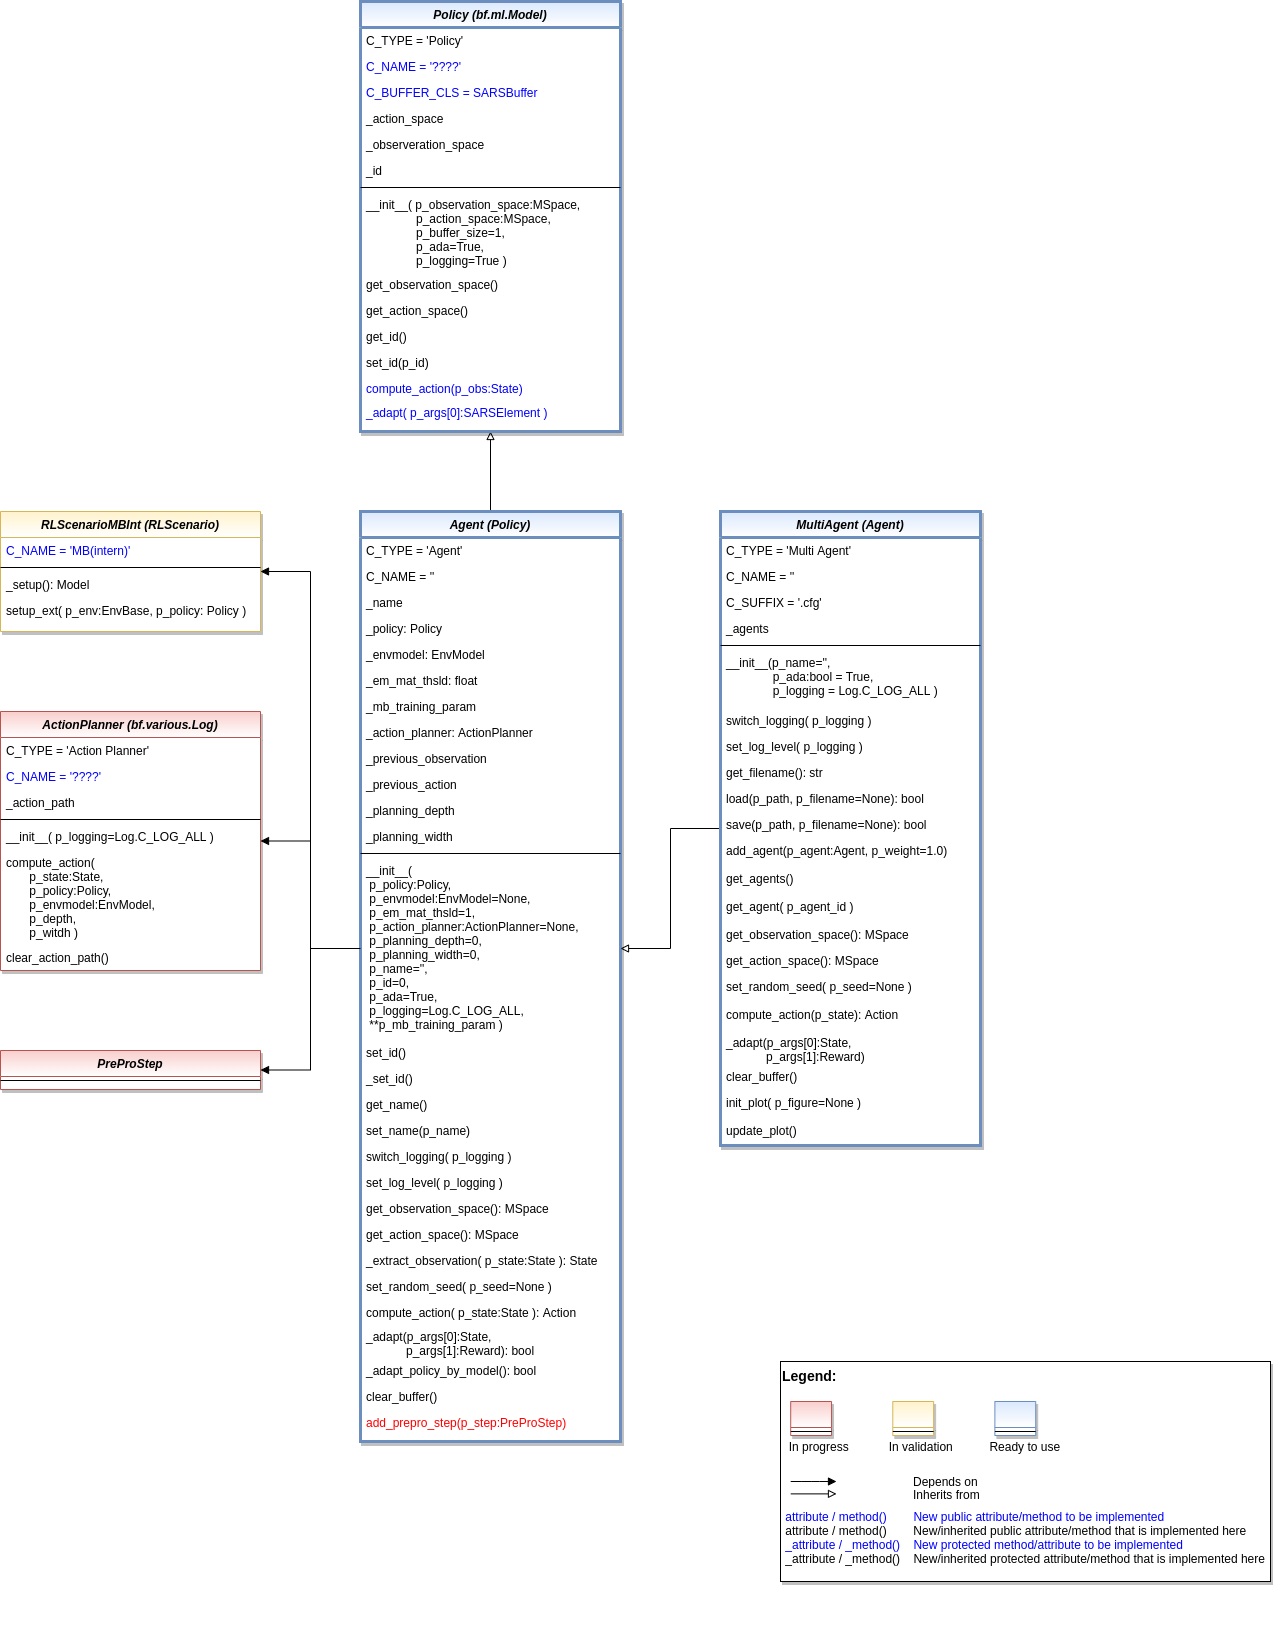
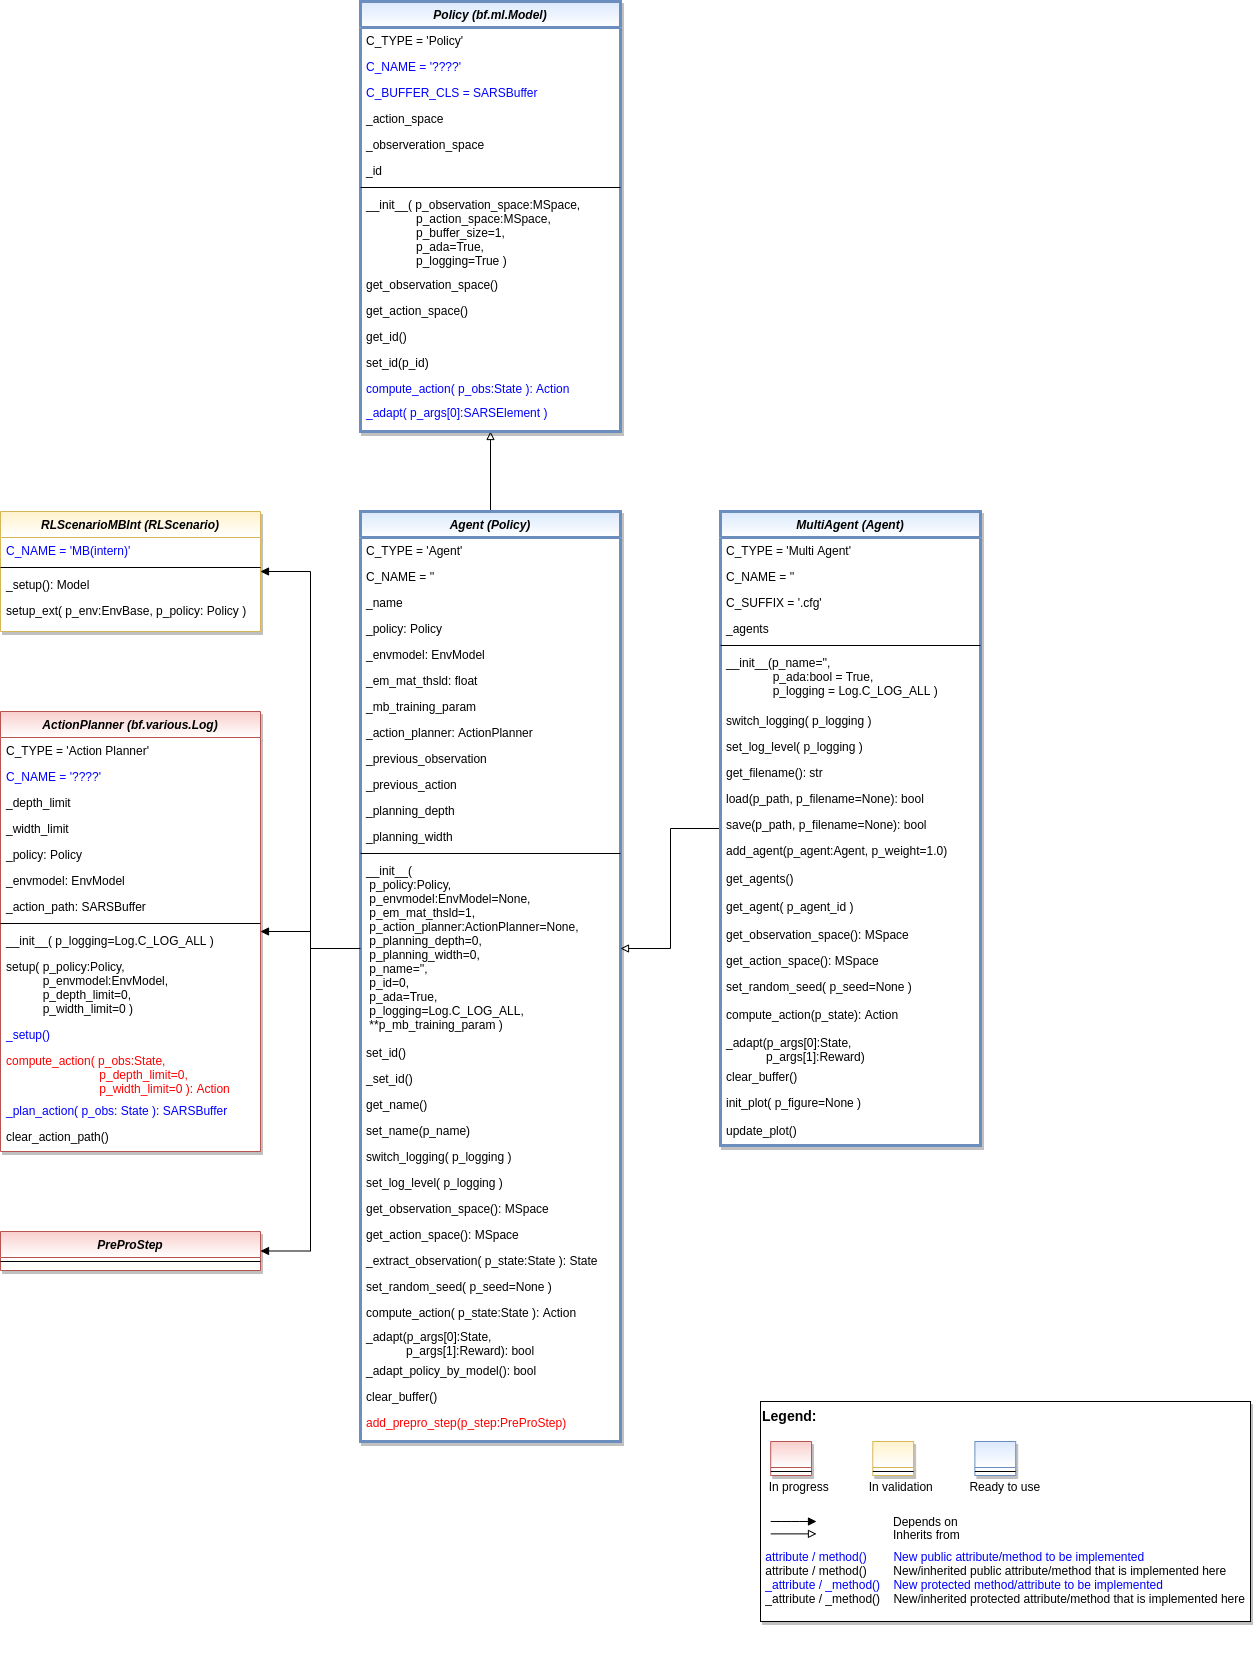
Class ActionPlanner in rework...

diff --git a/src/mlpro/rl/models_agents.py b/src/mlpro/rl/models_agents.py
@@ -90,7 +90,13 @@ class Policy (Model):
     C_BUFFER_CLS    = SARSBuffer
 
 ## -------------------------------------------------------------------------------------------------
-    def __init__(self, p_observation_space:MSpace, p_action_space:MSpace, p_buffer_size=1, p_ada=True, p_logging=Log.C_LOG_ALL):
+    def __init__(self, 
+                 p_observation_space:MSpace, 
+                 p_action_space:MSpace, 
+                 p_buffer_size=1, 
+                 p_ada=True, 
+                 p_logging=Log.C_LOG_ALL):
+
         super().__init__(p_buffer_size=p_buffer_size, p_ada=p_ada, p_logging=p_logging)
         self._observation_space = p_observation_space
         self._action_space      = p_action_space
@@ -164,7 +170,9 @@ class Policy (Model):
 ## -------------------------------------------------------------------------------------------------
 class ActionPlanner (Log):
     """
-    Template class for action planning algorithms to be used as part of planning agents.
+    Template class for action planning algorithms to be used as part of model-based planning agents. 
+    The goal is to find the shortest sequence of actions that leads to a maximum reward.
+
     """
 
     C_TYPE          = 'Action Planner'
@@ -172,27 +180,80 @@ class ActionPlanner (Log):
 ## -------------------------------------------------------------------------------------------------
     def __init__(self, p_logging=Log.C_LOG_ALL):
         super().__init__(p_logging=p_logging)
-        self._action_path = []
+        self._depth_limit   = 0
+        self._width_limit   = 0
+        self._policy        = None
+        self._env_model     = None
+        self._action_path   = None
 
 
 ## -------------------------------------------------------------------------------------------------
-    def compute_action(self, p_state:State, p_policy:Policy, p_envmodel:EnvModel, p_depth, p_width) -> Action:
+    def setup(self, 
+              p_policy:Policy, 
+              p_envmodel:EnvModel,
+              p_depth_limit=0, 
+              p_width_limit=0):
         """
-        Computes a path of actions with defined length that maximizes the reward of the given 
-        environment model.
-        
+        Setup of action planner object in concrete planning scenario. Must be called before first
+        planning. Optional custom method _setup() is called at the end.
+
         Parameters
         ----------
-        p_state : State
-            Current state of environment.
         p_policy : Policy
             Poliy of an agent.
         p_envmodel : EnvModel
             Environment model.
-        p_depth : int             
-            Planning depth (=length of action path to be predicted). 
-        p_width : int
-            Planning width (=number of alternative actions per planning level).
+        p_depth_limit : int             
+            Optional static maximum planning depth (=length of action path to be predicted). Can
+            be overridden by method compute_action(). Default=0. 
+        p_width_limit : int
+            Optional static maximum planning width (=number of alternative actions per planning level).
+            Can be overridden by method compute_action(). Default=0. 
+
+        """
+
+        self._policy        = p_policy
+        self._envmodel      = p_envmodel
+        self._depth_limit   = p_depth_limit
+        self._width_limit   = p_width_limit
+        self._path_id       = 0
+        self.clear_action_path()
+        self._setup()
+
+
+## -------------------------------------------------------------------------------------------------
+    def _setup(self):
+        """
+        Optional custom setup method.
+        """
+
+        pass
+
+
+## -------------------------------------------------------------------------------------------------
+    def compute_action(self, 
+                       p_obs:State, 
+                       p_depth_limit=0, 
+                       p_width_limit=0 ) -> Action:
+        """
+        Computes a path of actions with defined length that maximizes the reward of the given 
+        environment model. The planning algorithm itself is to be implemented in the custom method
+        _plan_action().
+        
+        Parameters
+        ----------
+        p_obs : State
+            Observation data.
+        p_policy : Policy
+            Poliy of an agent.
+        p_envmodel : EnvModel
+            Environment model.
+        p_depth_limit : int             
+            Optional dynamic maximum planning depth (=length of action path to be predicted) that 
+            overrides the static limit of method setup(). Default=0 (no override).
+        p_width_limit : int
+            Optionnal dynamic maximum planning width (=number of alternative actions per planning level) 
+            that  overrides the static limit of method setup(). Default=0 (no override).
 
         Returns
         -------
@@ -201,12 +262,73 @@ class ActionPlanner (Log):
 
         """
 
-        raise NotImplementedError
+        if ( self._policy is None ) or ( self._envmodel is None ):
+            raise RuntimeError('Please call method setup() first')
+
+        if ( p_depth_limit > 0 ) and ( p_depth_limit != self._depth_limit ):
+            self._depth_limit = p_depth_limit
+            self._action_path = None
+
+        if p_width_limit > 0: 
+            self._width_limit = p_width_limit
+
+        if ( self._depth_limit <= 0 ) or ( self._width_limit <= 0 ):
+            raise RuntimeError('Please set planning depth and width')
+
+        if self._action_path is None:
+            self._action_path = SARSBuffer(p_size=self._depth_limit)
+
+        if self._path_id >= len(self._action_path):
+            # (Re-)Planning of action path
+            self._action_path.clear()
+            self._plan_action(p_obs)
+            self._path_id = 0
+
+# Check/continue implementing...
+        sars_data     = self._action_path.get_all()
+        obs_buffered  = sars_data['states'][self._path_id]
+        if self._policy.get_observation_space().distance(p_obs, obs_buffered) == 0:
+            action = sars_data['actions'][self._path_id]
+            self._path_id += 1
+        else:
+            # ... to be implemented
+            pass
+
+
+        
+
+        if action is None:
+            # Action planner failed
+            action = self._policy.compute_action(p_obs)
+
+        return action
 
 
 ## -------------------------------------------------------------------------------------------------
+    def _plan_action(self, p_obs:State):
+        """
+        Custom planning algorithm to fill the internal action path (self._action_path). Search width
+        and depth are restricted by the attributes self._width_limit and self._depth_limit.
+
+        Parameters
+        ----------
+        p_obs : State
+            Observation data.
+
+        Returns
+        -------
+        action_path : SARSBuffer
+            Sequence of actions that leads to the best possible reward.
+
+        """
+
+        raise NotImplementedError
+ 
+ 
+## -------------------------------------------------------------------------------------------------
     def clear_action_path(self):
-        self._action_path.clear()
+        if self._action_path is not None:
+            self._action_path.clear()
 
 
 
